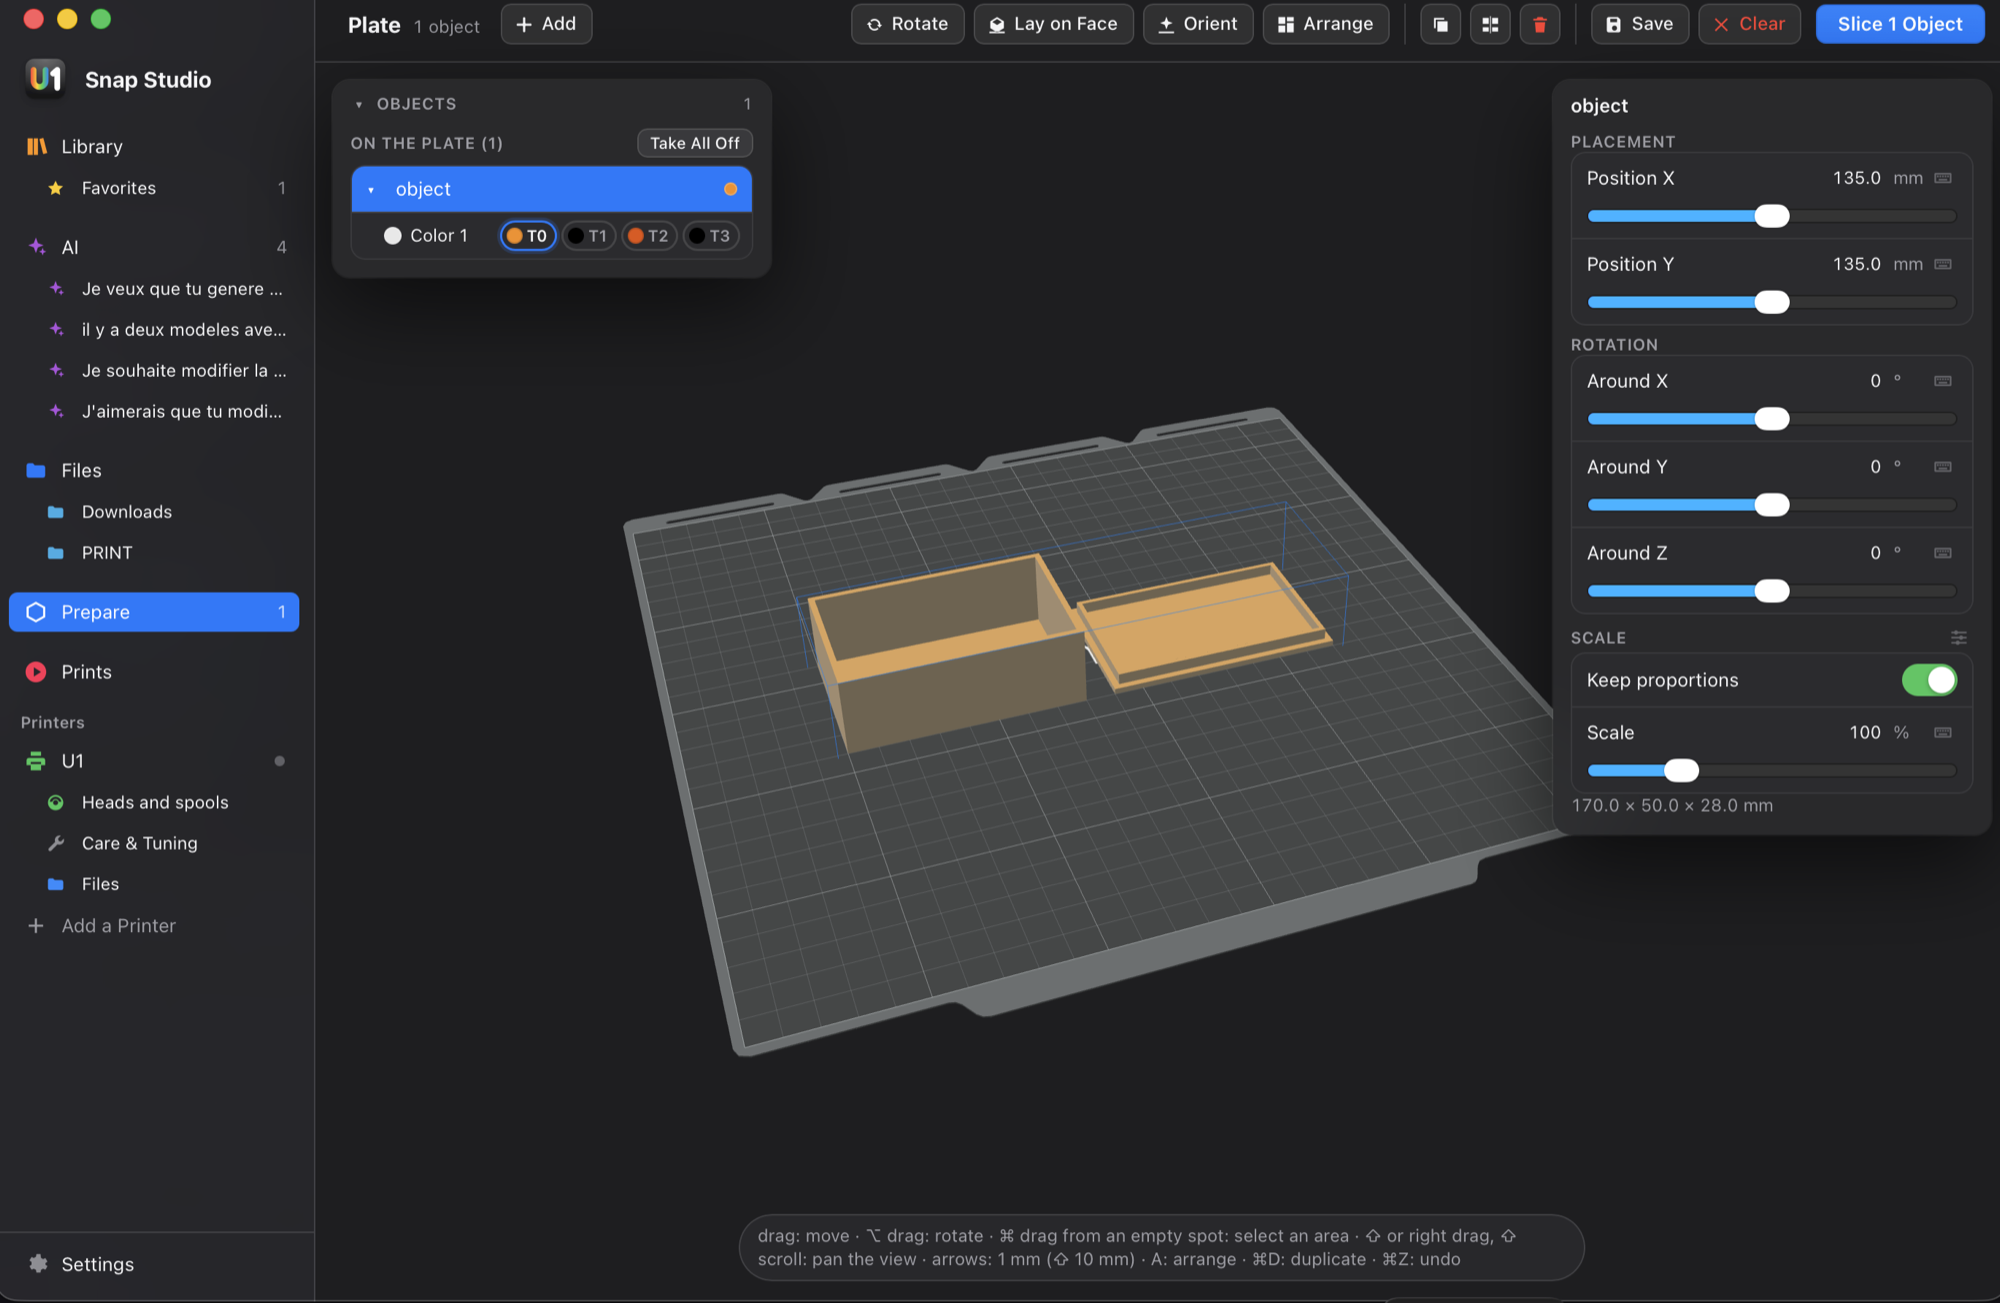
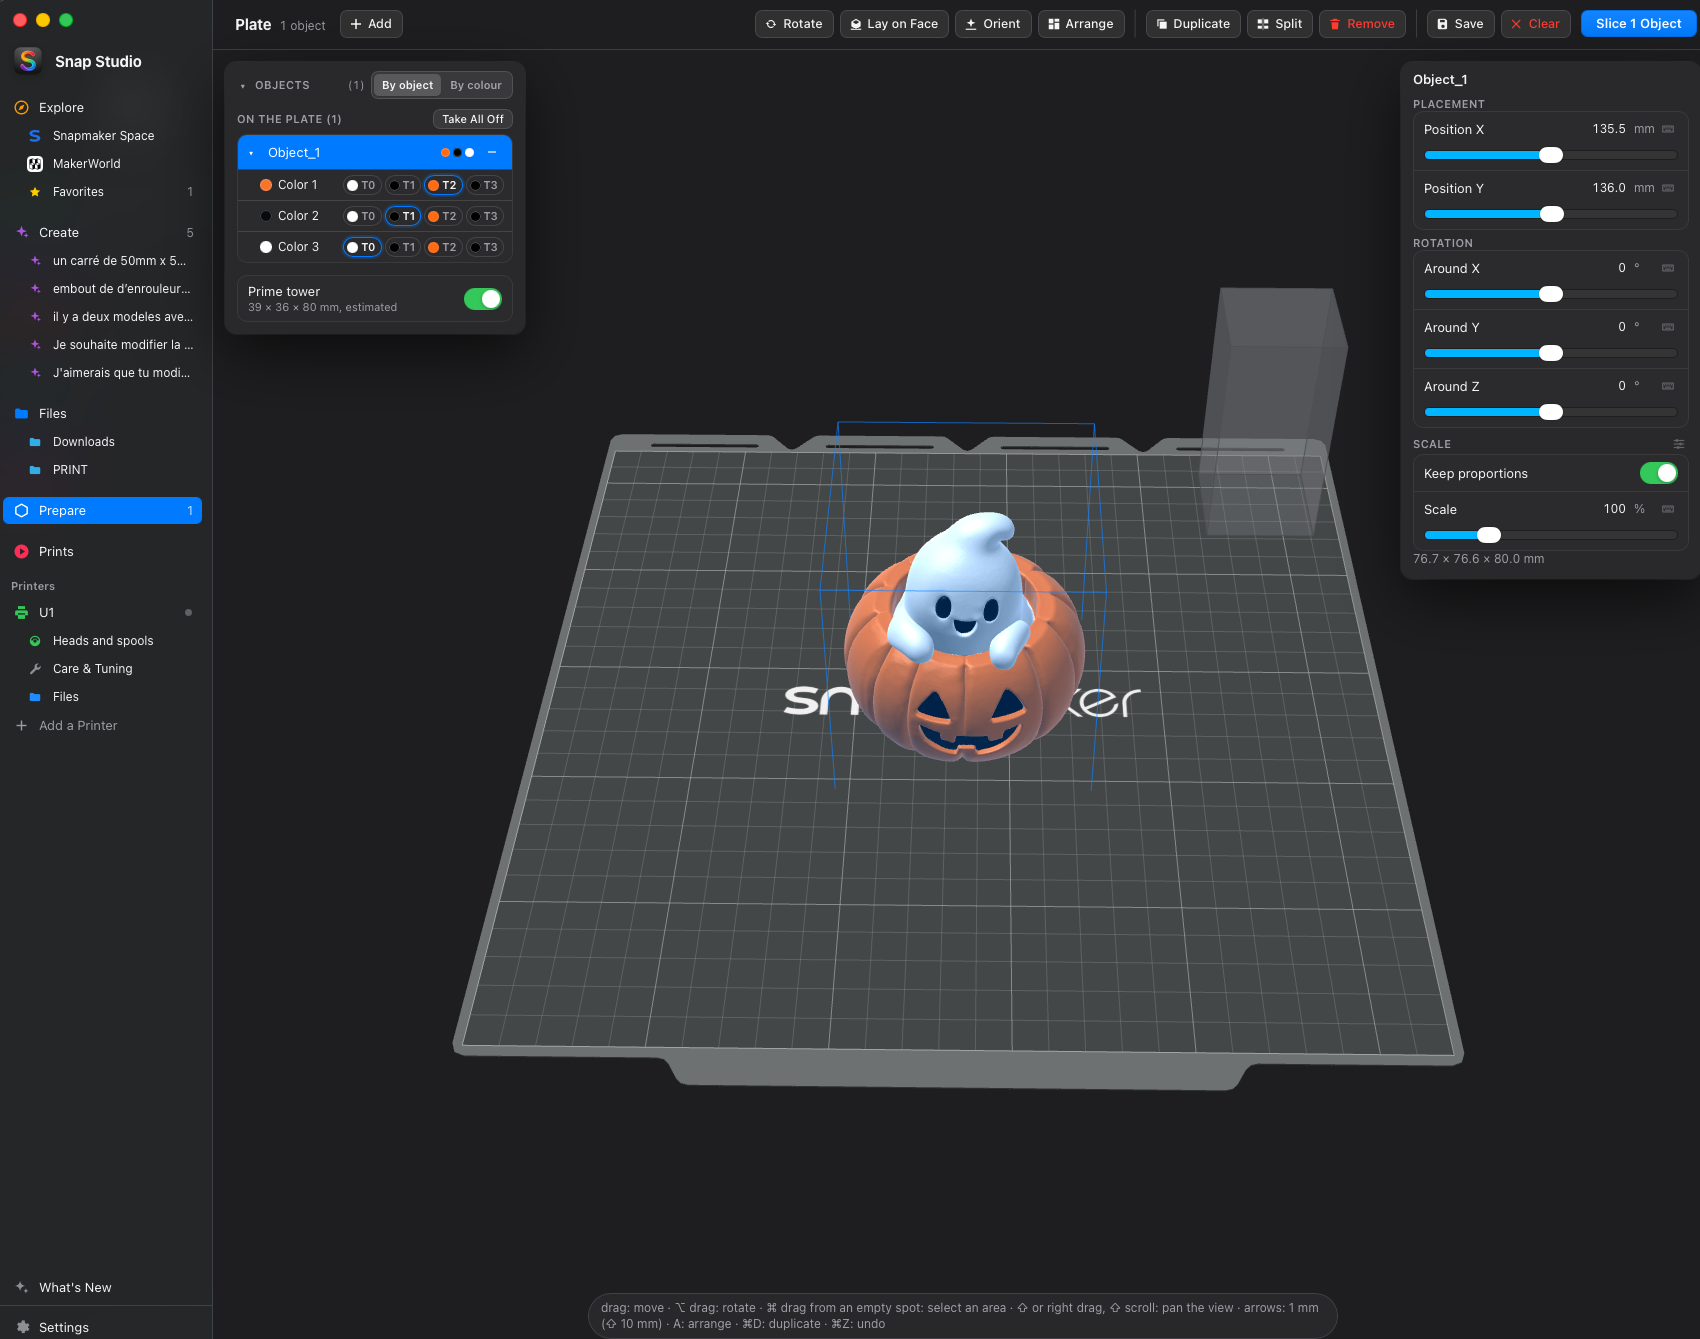
docs: New Prepare and slicing screenshots; "Tour d'amorçage" in the French README
prepare.png shows a model by colour on the plate, the Prime tower switch
and the tower's box; slicing.png the slice sheet with its Surfaces and
Other rows. head-picker-en.png, the head picker in English, joins the
head-swatches mockups. The French README names the tower as the app does.

diff --git a/README.fr.md b/README.fr.md
@@ -82,7 +82,7 @@ Vos fichiers 3MF en un coup d'œil.
 
 ### 🧩 Préparer
 
-<img align="right" width="48%" hspace="12" src="docs/screenshots/prepare.png" alt="Préparer" />
+<img align="right" width="48%" hspace="12" src="docs/screenshots/prepare.png" alt="Préparer : un modèle sur le plateau, ses couleurs envoyées aux têtes, et la tour d'amorçage" />
 
 Le plateau U1 comme dans Orca — puis découper.
 
@@ -93,7 +93,7 @@ Le plateau U1 comme dans Orca — puis découper.
   remis d'un clic.
 - Chaque objet liste ses couleurs, peintes comprises, et envoie chacune vers
   la tête de votre choix, montrée avec la couleur et la matière de sa bobine.
-- **Tour d'amorçage** (tour de purge) : avec deux têtes ou plus, un
+- **Tour d'amorçage** : avec deux têtes ou plus, un
   interrupteur sous la liste des objets (désactivé sur chaque nouveau
   plateau, le même réglage que dans la fenêtre de découpe) montre la tour
   sur le plateau, une boîte grise placée dans un coin libre. Elle se déplace
@@ -155,7 +155,7 @@ modèle en dessous :
   accélérations × f²), avec un panneau ⚙ qui montre chaque valeur, profil →
   calculée ; à 100 %, le G-code est celui du profil ;
 - le détail de chaque profil tel que le moteur le reçoit ;
-- **multimatériau** : la tour de purge (son propre interrupteur, partagé
+- **multimatériau** : la tour d'amorçage (son propre interrupteur, partagé
   avec Préparer, où elle se place sur le plateau ; la tête de son mur
   extérieur), la prévention des coulures ; un avertissement quand la tour mélangerait des
   matières qui n'adhèrent pas (PLA et PETG, PLA et TPU…), avec des

diff --git a/README.md b/README.md
@@ -73,7 +73,7 @@ Your 3MF files at a glance.
 
 ### 🧩 Prepare
 
-<img align="right" width="48%" hspace="12" src="docs/screenshots/prepare.png" alt="Prepare" />
+<img align="right" width="48%" hspace="12" src="docs/screenshots/prepare.png" alt="Prepare: a model on the plate, its colors sent to the heads, and the prime tower" />
 
 The U1 plate as in Orca — then slice.
 
